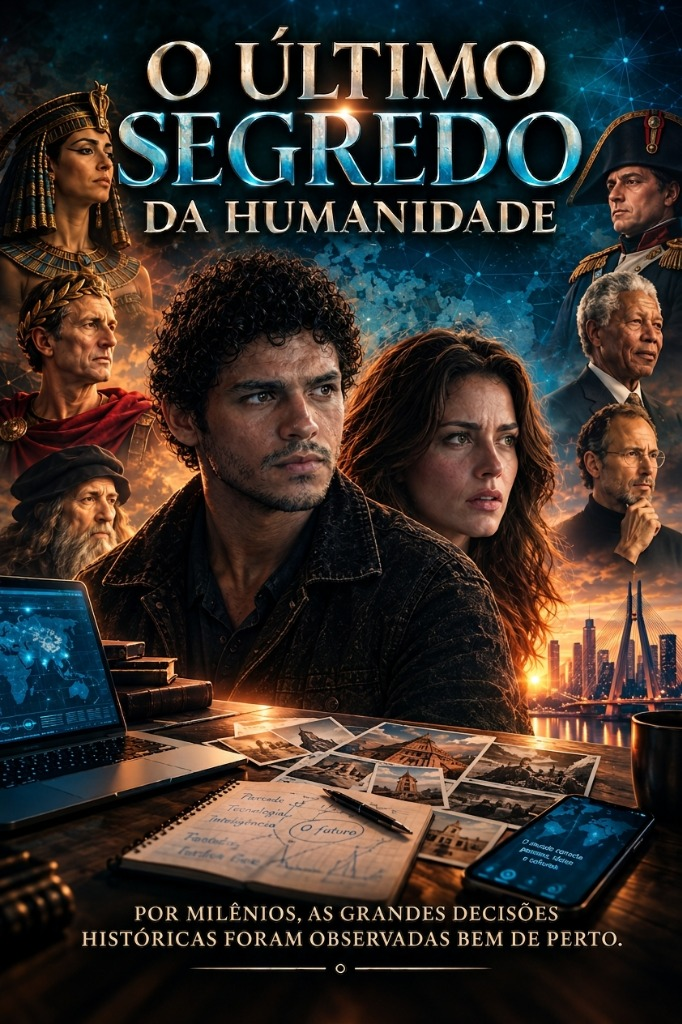
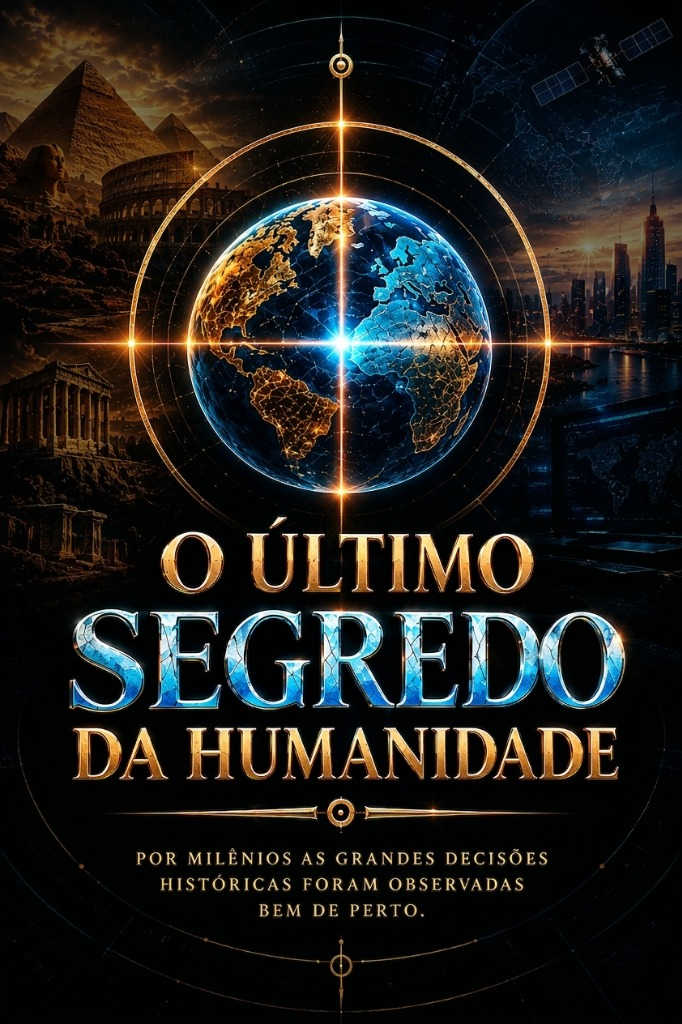
feat: update book cover images on landing page and e-reader, fix dossier-meta contrast

diff --git a/public/reader/css/style.css b/public/reader/css/style.css
@@ -2015,7 +2015,7 @@ body.zen .zen-exit-floating-btn,
   text-transform: uppercase;
 }
 
-.dossier-meta {
+.dossier-meta-old {
   font-family: var(--font-mono);
   font-size: 0.72rem;
   letter-spacing: 0.12em;
@@ -2897,12 +2897,12 @@ img[src*="ch07_alexandre"] {
 
 
 /* === VISIBILIDADE DE CIDADE E ANO (.dossier-meta) NOS TEMAS ESCUROS === */
-body:not([data-theme=light]):not([data-theme=sepia]) .dossier-meta { color: #e2e8f0 !important; /* Slate 200 - alto contraste e leitura cristalina no escuro */
+body:not([data-theme=light]):not([data-theme=sepia]) .dossier-meta-old { color: #e2e8f0 !important; /* Slate 200 - alto contraste e leitura cristalina no escuro */
   opacity: 0.95 !important;
   font-weight: 500 !important;
 }
 
-[data-theme="light"] [data-theme="light"] .dossier-meta {
+[data-theme="light"] [data-theme="light"] .dossier-meta-old {
   color: #475569 !important; /* Slate 600 para o tema claro */
 }
 body[data-font=serif] #content-wrapper, body[data-font=serif] #content-wrapper p { font-family: Crimson Text, Georgia, serif !important; }
@@ -2918,9 +2918,9 @@ body.zen .zen-exit-floating-btn, body.zen-mode .zen-exit-floating-btn, :fullscre
 
 /* OCULTAR BOTAO DE VIDEO DOS CARDS DE DOSSIE E REORGANIZAR CONTRASTE DE METADADOS */
 .dossier-video-btn, button[class*=\ video\], .btn-watch-teaser { display: none !important; }
-body:not([data-theme=light]):not([data-theme=sepia]) .dossier-meta { color: #e2e8f0 !important; font-weight: 600 !important; }
-[data-theme="light"] .dossier-meta { color: #475569 !important; font-weight: 600 !important; }
-[data-theme="light"] .dossier-tag, [data-theme="light"] .chaptermeta, [data-theme="light"] .scenebreak { color: #0284c7 !important; }
+body:not([data-theme=light]):not([data-theme=sepia]) .dossier-meta-old { color: #e2e8f0 !important; font-weight: 600 !important; }
+[data-theme="light"] .dossier-meta-old { color: #475569 !important; font-weight: 600 !important; }
+[data-theme="light"] .dossier-tag-old, [data-theme="light"] .chaptermeta, [data-theme="light"] .scenebreak { color: #0284c7 !important; }
 
 
 /* Item 3: Melhoria visual da tag Dossiê do Leitor */
@@ -2948,8 +2948,8 @@ body:not([data-theme=light]):not([data-theme=sepia]) .dossier-meta { color: #e2e
 
 
 /* Correção definitiva da tarja DOSSIÊ DO LEITOR / ARQUIVO OFICIAL */
-.dossier-tag,
-span.dossier-tag,
+.dossier-tag-old,
+span.dossier-tag-old,
 .inner-sheet-header .dossier-tag {
   background: rgba(201, 169, 98, 0.15) !important;
   border: 1px solid var(--acc, #c9a962) !important;
@@ -2966,8 +2966,8 @@ span.dossier-tag,
   font-weight: 700 !important;
 }
 
-[data-theme="light"] .dossier-tag,
-[data-theme="light"] span.dossier-tag,
+[data-theme="light"] .dossier-tag-old,
+[data-theme="light"] span.dossier-tag-old,
 [data-theme="light"] .inner-sheet-header .dossier-tag {
   background: rgba(2, 132, 199, 0.12) !important;
   border-color: #0284c7 !important;
@@ -3000,13 +3000,13 @@ span.dossier-tag,
   color: #2b2118 !important;
 }
 
-[data-theme="sepia"] .dossier-meta {
+[data-theme="sepia"] .dossier-meta-old {
   color: #4a3c2c !important;
 }
 
-[data-theme="sepia"] .dossier-tag,
-[data-theme="sepia"] span.dossier-tag,
-[data-theme="sepia"] .inner-sheet-header .dossier-tag,
+[data-theme="sepia"] .dossier-tag-old,
+[data-theme="sepia"] span.dossier-tag-old,
+[data-theme="sepia"] .inner-sheet-header .dossier-tag-old,
 [data-theme="sepia"] .chaptermeta,
 [data-theme="sepia"] .scenebreak {
   background: rgba(140, 90, 43, 0.1) !important;
@@ -3026,7 +3026,7 @@ span.dossier-tag,
 }
 [data-theme="light"] .dossier-badge-row span,
 [data-theme="light"] .dossier-badge-row div,
-[data-theme="light"] .dossier-meta {
+[data-theme="light"] .dossier-meta-old {
   color: #0284c7 !important;
   font-weight: 700 !important;
 }
@@ -3045,7 +3045,7 @@ span.dossier-tag,
 }
 
 [data-theme="light"] .dossier-badge-row *,
-[data-theme="light"] .dossier-meta {
+[data-theme="light"] .dossier-meta-old {
   color: #0284c7 !important;
   font-weight: 700 !important;
 }
@@ -3101,7 +3101,7 @@ span.dossier-tag,
   font-weight: 700 !important;
 }
 
-[data-theme="light"] .dossier-meta,
+[data-theme="light"] .dossier-meta-old,
 [data-theme="light"] .dossier-location,
 [data-theme="light"] .dossier-date,
 [data-theme="light"] [class*="dossier-meta"] {
@@ -3150,7 +3150,7 @@ body[data-theme="light"] .historical-dossier-card h4 {
   font-weight: 700 !important;
 }
 
-body[data-theme="light"] .dossier-meta,
+body[data-theme="light"] .dossier-meta-old,
 body[data-theme="light"] .dossier-location,
 body[data-theme="light"] .dossier-date,
 body[data-theme="light"] [class*="dossier-meta"] {
@@ -3167,6 +3167,6 @@ body[data-theme="light"] .historical-dossier-card p {
 
 html body[data-theme=\ light\] .historical-dossier-card, body[data-theme="light"] .historical-dossier-card { background: #ffffff !important; background-color: #ffffff !important; border-color: #cbd5e1 !important; }
 html body[data-theme="light"] .dossier-badge-row, body[data-theme="light"] .dossier-badge-row, html body[data-theme="light"] .dossier-caption-row, body[data-theme="light"] .dossier-caption-row { background: #f8fafc !important; background-color: #f8fafc !important; }
-html body[data-theme="light"] .dossier-tag, body[data-theme="light"] .dossier-tag, html body[data-theme="light"] .dossier-meta, body[data-theme="light"] .dossier-meta { color: #0284c7 !important; font-weight: 700 !important; }
+html body[data-theme="light"] .dossier-tag-old, body[data-theme="light"] .dossier-tag-old, html body[data-theme="light"] .dossier-meta-old, body[data-theme="light"] .dossier-meta-old { color: #0284c7 !important; font-weight: 700 !important; }
 html body[data-theme="light"] .dossier-title, body[data-theme="light"] .dossier-title { color: #0284c7 !important; font-weight: 700 !important; }
 html body[data-theme="light"] .dossier-subcaption, body[data-theme="light"] .dossier-subcaption { color: #334155 !important; font-weight: 500 !important; }
